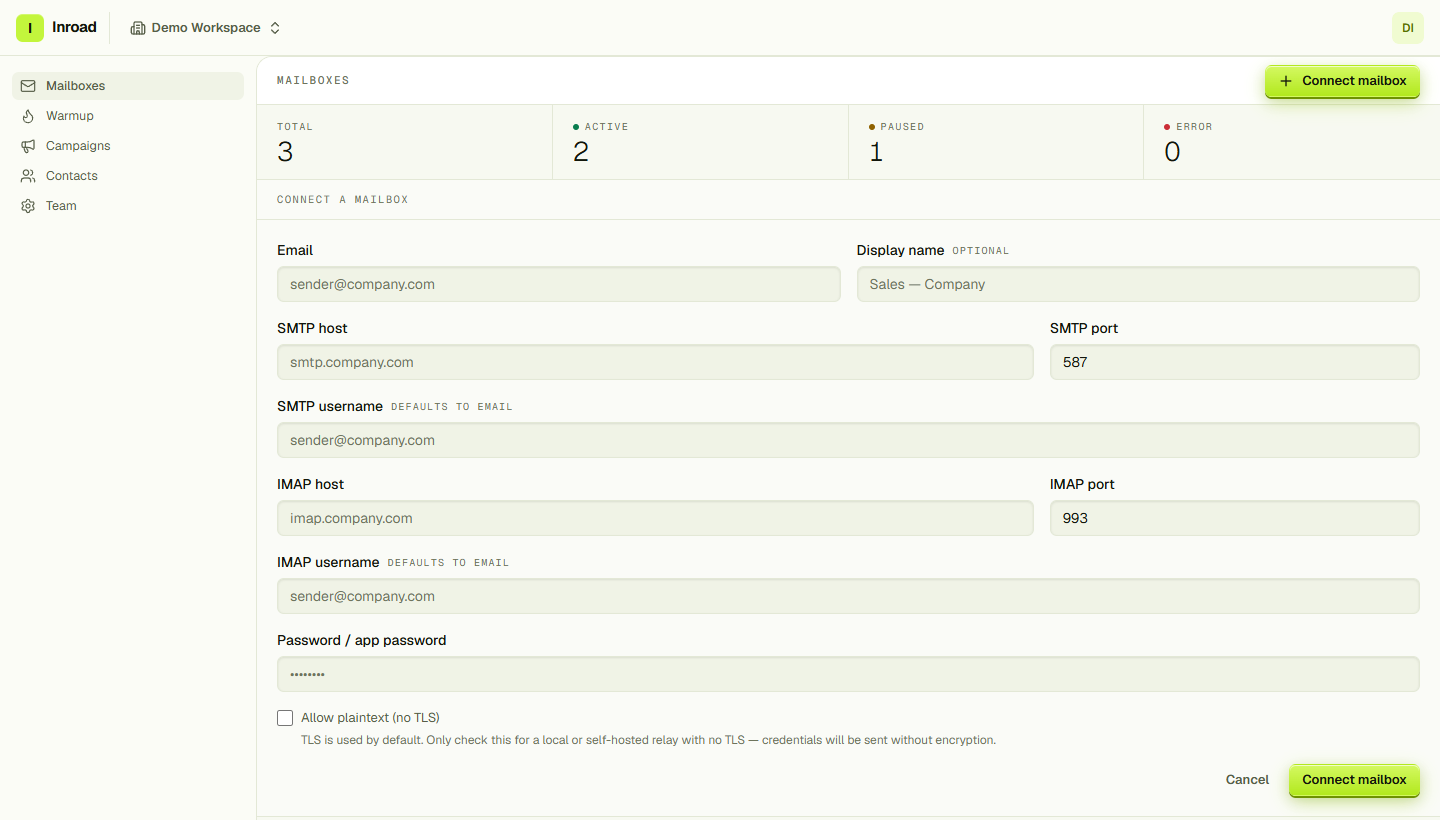
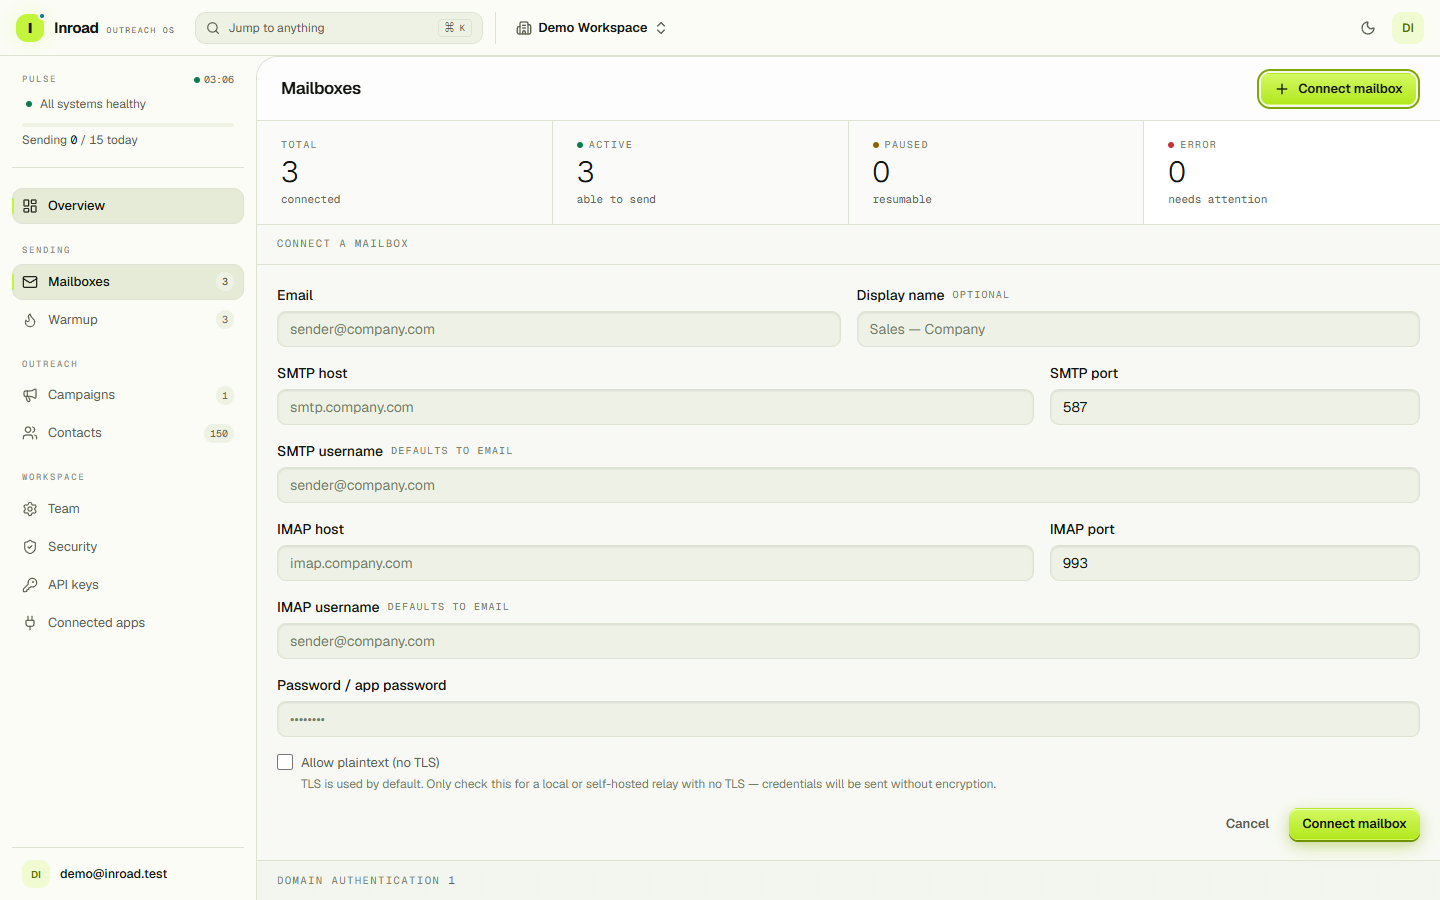
docs: README reflects the live console — pulse card, domain auth, fresh screenshots
Features table gains domain-authentication-checks and console-pulse rows;
SPF/DKIM/DMARC moves from the roadmap to working-today; six screenshots
recaptured from the running app (new chrome: pulse card, live nav counts,
identity footer, ⌘K, table headers, keyboard hint bar, domain-auth panel).
campaign-metrics.png and login.png kept — metrics needs a workspace with
real engagement data to reshoot honestly; login has no chrome.

diff --git a/README.md b/README.md
@@ -58,6 +58,8 @@ infrastructure than rent it.
 | **Bounce handling** | DSN parsing on inbound mail; hard bounces mark the send and stop the enrollment before the next step fires. |
 | **Suppression & one-click unsubscribe** | Workspace-wide suppression list, signed unsubscribe tokens, opt-outs enforced at send time. |
 | **Open / click tracking** | Signed, per-send tracking tokens, toggleable per campaign, with opens honestly labelled *indicative* and clicks *reliable*. |
+| **Domain authentication checks** | SPF, DKIM, and DMARC verified per sending domain, so a missing or broken record is a visible state on the mailboxes you send from instead of silent spam-foldering. |
+| **Live console pulse** | One O(1) aggregate read-model drives the whole chrome: a sidebar pulse card that stays quiet when healthy and promotes the worst problem first (with its reason and a link to the fix), live nav counts, and a today's-sends meter. Polls; no websockets to run. |
 | **Contacts at scale** | Server-side search across email, name and company via a trigram index, and keyset pagination that seeks by cursor instead of `OFFSET` — a page 200k rows in costs the same as the first. CSV import with skip/duplicate reporting. |
 | **Multi-workspace teams** | One account, many workspaces. Owner / admin / member roles, email invites, workspace switcher. |
 | **Envelope-encrypted secrets** | Per-workspace data-encryption keys wrapped by a key-encryption key. Deleting a workspace crypto-shreds its secrets. |
@@ -65,6 +67,10 @@ infrastructure than rent it.
 ---
 
 ## A look inside
+
+The chrome keeps score everywhere: the sidebar's **pulse card** answers "is everything okay?" from
+any page — quiet two lines when it is, severity-sorted problems with reasons and fix links when it
+isn't — beside live nav counts, a `⌘K` palette, and keyboard list navigation with a visible hint bar.
 
 ### Run campaigns
 
@@ -89,7 +95,8 @@ Send counts, engagement rates, and every enrollment with the reply class that st
 ### Connect the mailboxes you already own
 
 Gmail and Microsoft 365 connect over OAuth; anything else connects over SMTP/IMAP. Credentials are
-verified with a live connection test before they're saved, then sealed.
+verified with a live connection test before they're saved, then sealed. The same page checks SPF,
+DKIM, and DMARC per sending domain — with honest caveats where DNS can't prove a negative.
 
 ![Mailbox list with provider picker](docs/images/mailboxes.png)
 
@@ -308,9 +315,10 @@ health-gated cold sending and campaign-wide daily limits · the warmup pool end-
 threaded replies, rescue-from-spam, mark-read, measured placement health, per-IP worker routing) ·
 reply and bounce polling across all three transports · deterministic reply classification ·
 suppression and one-click unsubscribe · open/click tracking · server-side contact search with keyset
-pagination.
+pagination · SPF/DKIM/DMARC domain authentication checks · the console pulse read-model behind the
+live sidebar.
 
-**On the roadmap:** a unified cross-mailbox inbox UI · SPF/DKIM/DMARC domain authentication checks ·
+**On the roadmap:** a unified cross-mailbox inbox UI ·
 lead-flow throttling, so a launch spreads across as many days as the pool's capacity actually needs
 rather than queueing behind a daily cap · outbound webhooks and a public API · cloud KMS as a second
 `KeyProvider` · rate limiting and an audit log on auth, connect, and reply-driven suppression · a
